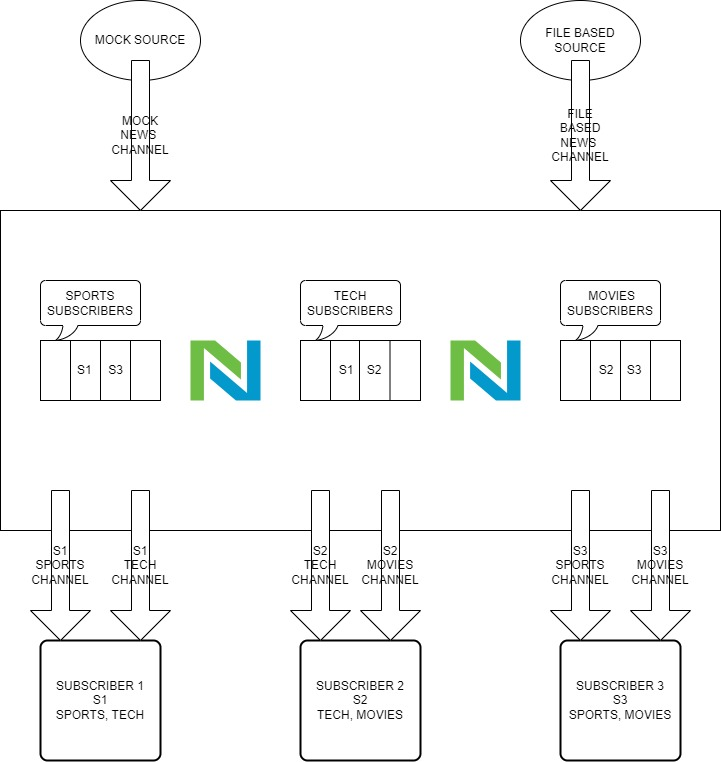
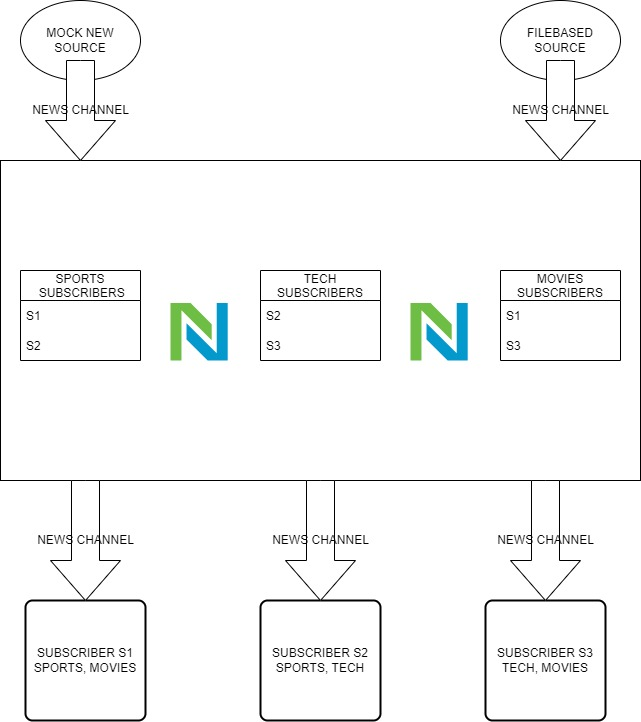
Updated high level design and readme file

diff --git a/week10/README.md b/week10/README.md
@@ -1,4 +1,6 @@
 
+                        ** NewsService in Progress **
+
 
 # **NewsService Design**
 ![alt text](NewService_HighLevel_Design.jpg)
@@ -7,52 +9,199 @@
 
 ---
 
-# ***Subscriber***
+# ***Source***
 
 ```
-type Subscriber struct {
-	name string
+type NewsSourcer interface {
+	SourceStart(ctx context.Context, categories ...string)
+	PublishArticles(ctx context.Context)
+	SourceStop()
+}
+```
+
+```
+type source struct {
+	Name       string   `json:"name"`
+	FilePath   string   `json:"filepath"`
+	Categories []string `json:"categories"`
+}
+```
+
+```
+type MockSource struct {
+	name       string
+	categories []string
+	News       chan []Article
 	sync.RWMutex
-	topicChannel map[string]chan string
-	cancel       context.CancelFunc
-	closed       bool
-	stopOnce     sync.Once
+	Cancel   context.CancelFunc
+	closed   bool
+	stopOnce sync.Once
+}
+```
+
+```
+type FileBasedSource struct {
+	name       string
+	filePath   string
+	categories []string
+	News       chan []Article
+	sync.RWMutex
+	Cancel   context.CancelFunc
+	closed   bool
+	stopOnce sync.Once
+}
+```
+
+```
+type Article struct {
+	Source      string
+	Category    string
+	Description string
+}
+```
+
+# ***MockNewsSource***
+```
+NewMockSource(name string) *MockSource
+```
+```
+(s *MockSource) SourceStart(ctx context.Context, categories ...string) context.Context
+```
+```
+(s *MockSource) PublishArticles(ctx context.Context)
+```
+```
+(ms *MockSource) getArticle() []Article 
+```
+```
+(s *MockSource) SourceStop()
+```
+
+# ***FileBasedNewsSource***
+```
+NewFileBasedSource(name string, filePath string) *FileBasedSource
+```
+```
+(s *FileBasedSource) SourceStart(ctx context.Context, categories ...string) context.Context 
+```
+```
+(s *FileBasedSource) PublishArticles(ctx context.Context)
+```
+```
+(s *FileBasedSource) GetArticles() []Article
+```
+```
+(s *FileBasedSource) SourceStop()
+```
+
+# ***NewsSource***
+```
+type NewsService struct {
+	sync.RWMutex
+	ctx                 context.Context
+	sources             map[string]interface{}
+	subscribers         map[string]*Subscriber
+	channelSubscriber   map[string]chan Article
+	categorySubscribers map[string][]string
+	newsArticles        *NewsArticles
+	categoryArticles    *CategoryArticles
+	newsStats           *NewsStats
+	cancel              context.CancelFunc
+	closed              bool
+	stopOnce            sync.Once
 }
 ```
 ```
-func NewSubscriber(name string) *Subscriber 
+type NewsArticles struct {
+	newsArticles map[int]Article
+}
+```
+```
+type CategoryArticles struct {
+	categoryArticles map[string]map[int]Article
+}
+```
+```
+type NewsStats struct {
+	categories          []string
+	backupFileLocation  string
+	totalArticles       int
+	articlesPerCategory map[string]int
+	articlesPerSource   map[string]int
+}
+```
+```
+NewNewService() *NewsService
+```
+```
+(news *NewsService) StartSubscribers() error
+```
+```
+(news *NewsService) StartSources() error
+```
+```
+(ns *NewsService) Start(ctx context.Context)
+```
+```
+(ns *NewsService) listenForArticles(news chan []Article)
+```
+```
+(ns *NewsService) publish(article Article) 
+```
+```
+(ns *NewsService) saveArticleInMemory(article Article)
+```
+```
+(news *NewsService) Subscribe(name string, topics ...string) 
+```
+```
+(ns *NewsService) UnSubscribe(name string)
+```
+```
+(ns *NewsService) saveArticlesInBackupFile() error 
+```
+```
+(ns *NewsService) LoadArticlesFromBackupFile() error
+```
+```
+(ns *NewsService) Stop()
+```
+```
+func (ns *NewsService) NewsServiceStats()
+```
+# ***Subscriber***
+
+```
+type subscriber struct {
+	Name   string   `json:"name"`
+	Topics []string `json:"topics"`
+}
+```
+```
+type Subscriber struct {
+	Name   string
+	Topics []string
+	Cancel context.CancelFunc
+}
+```
+```
+NewSubscriber(name string) *Subscriber 
 ```
 
 ```
-func (s *Subscriber) SubscriberStart(ctx context.Context, topics ...string) (context.Context, error)
+(s *Subscriber) SubscriberStart(ctx context.Context, topics ...string) context.Context
 ```
 
 ```
-func (s *Subscriber) Listen(ctx context.Context)
+(s *Subscriber) Listen(ctx context.Context, ch chan Article)
 ```
 
 ```
-func readMsg(ctx context.Context, ch chan string)
+(s *Subscriber) readArticle(ctx context.Context, ch chan Article)
 ```
 
 ```
-func (s *Subscriber) GetChannelByTopic(topic string) chan string 
-```
-
-```
-func (s *Subscriber) DeleteChannelByTopic(topic string) error 
-```
-
-```
-func (s *Subscriber) IsClosed() bool 
-```
-
-```
-func (s *Subscriber) SubscriberStop()
-```
-
-```
-func GetSubscribers() ([]subscriber, error) 
+GetSubscribers(fileName string) ([]subscriber, error)
 ```
 
 
